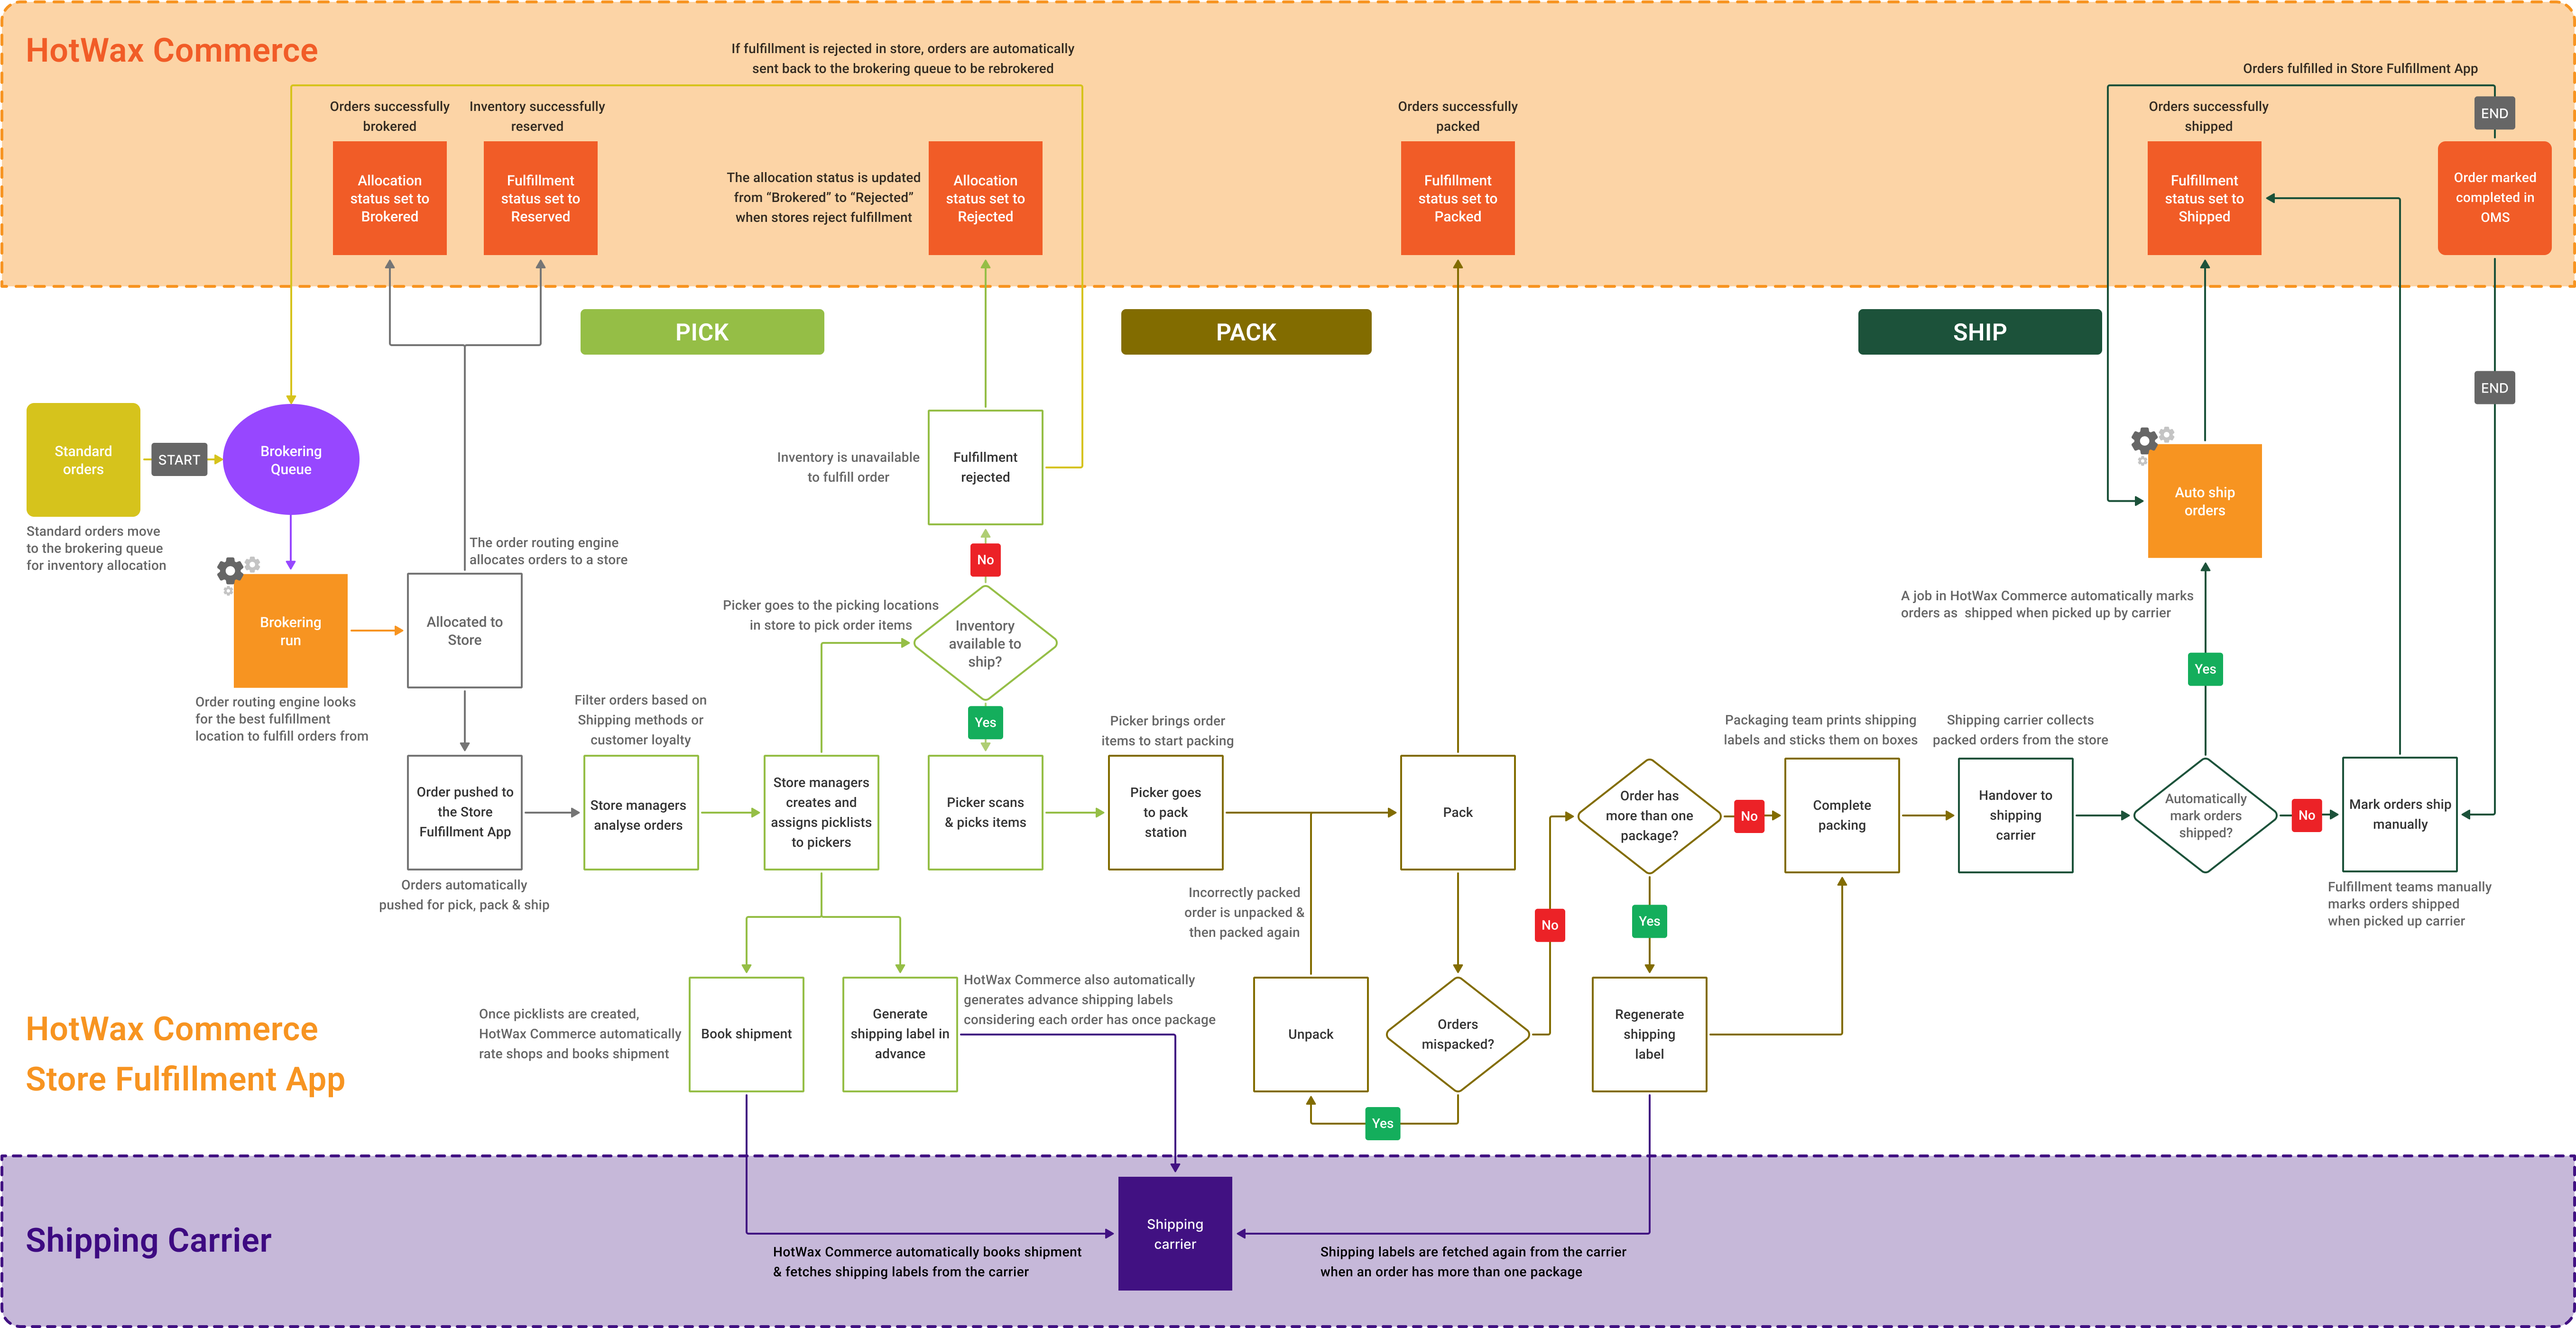
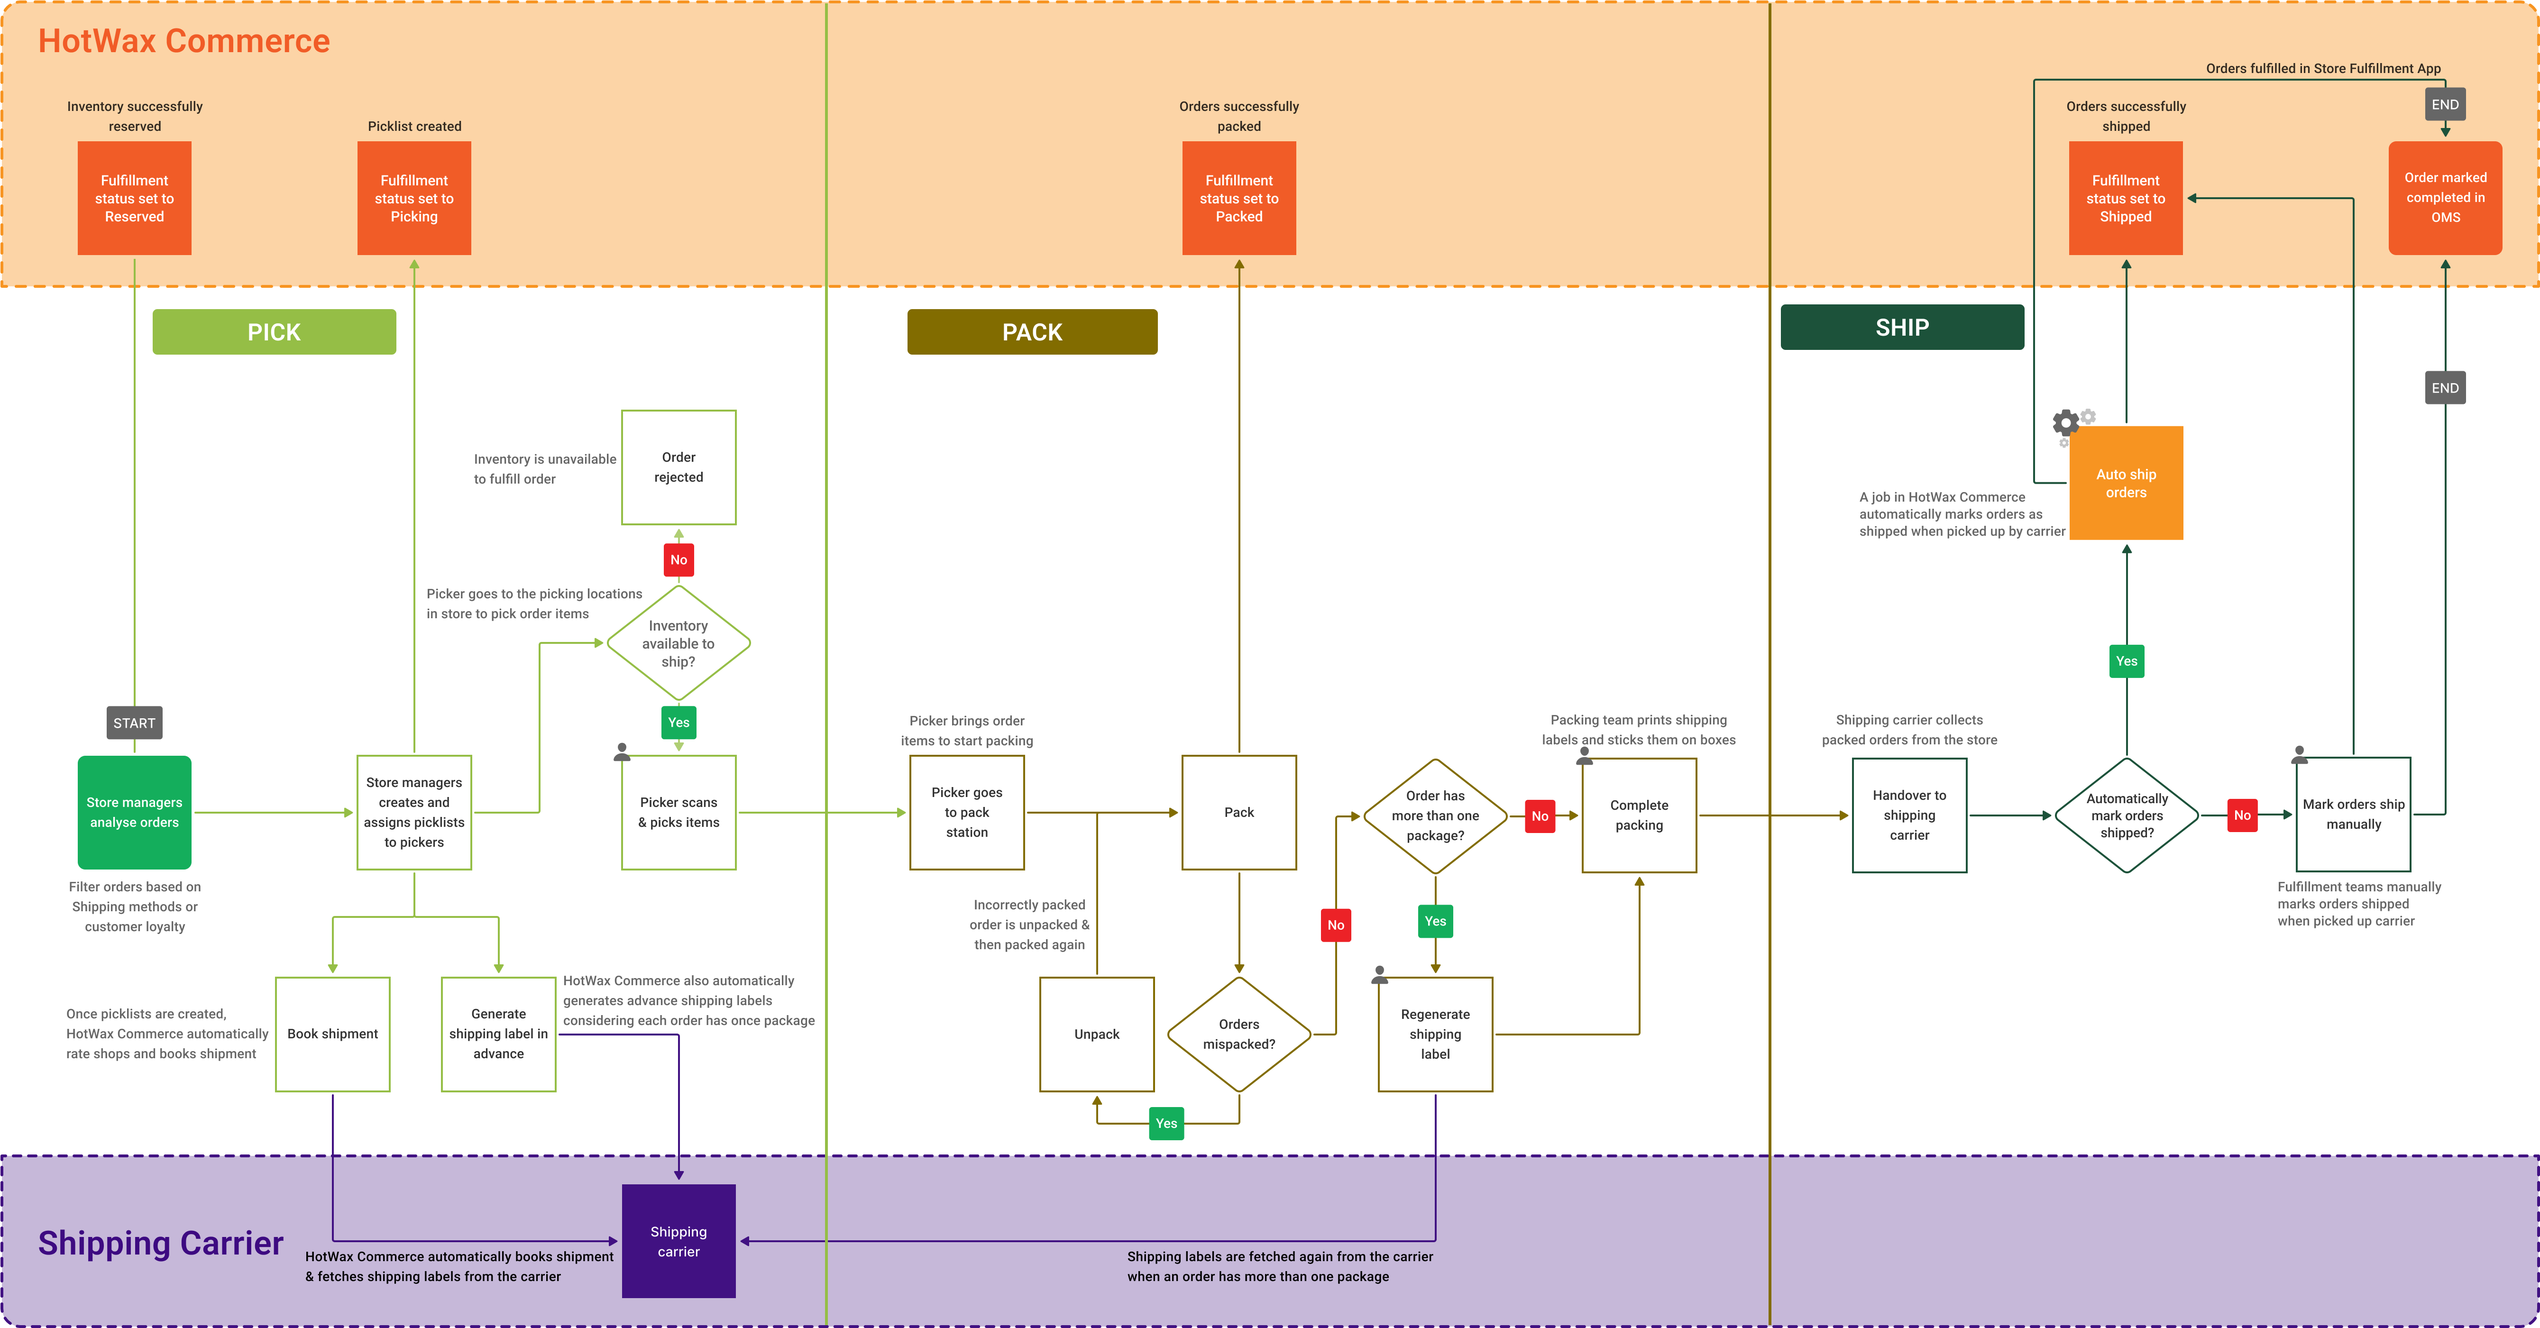
GITBOOK-164: updated an image

diff --git a/user-manuals/business-process-models/orderlifecycle.md b/user-manuals/business-process-models/orderlifecycle.md
@@ -45,7 +45,7 @@ Each order has its distinct fulfillment process, making it essential to recogniz
 
 ## Fulfillment of Standard Orders
 
-All the approved standard orders are sent to the `Brokering Queue` which serves as a waiting area for orders awaiting processing. Orders in the brokering queue are analyzed and picked in the brokering run.
+All the approved standard orders are sent to the [`Brokering Queue`](https://docs.hotwax.co/user-guides/administration/facilities/manage-parkings) which serves as a waiting area for orders awaiting processing. Orders in the brokering queue are analyzed and picked in the brokering run.
 
 {% hint style="info" %}
 **What are brokering runs:**
@@ -92,7 +92,7 @@ In the event, that a fulfillment location cannot fulfill an order that has been 
 
 ## Failed Inventory Allocation
 
-When inventory is unavailable for orders at any location, the order routing engine moves them from the `Brokering Queue` to the `Unfillable Parking`. A dedicated brokering run is performed to check the orders in the `Unfillable Parking` and allocate inventory to them.
+When inventory is unavailable for orders at any location, the order routing engine moves them from the `Brokering Queue` to the [`Unfillable Parking`](https://docs.hotwax.co/user-guides/administration/facilities/manage-parkings). A dedicated brokering run is performed to check the orders in the `Unfillable Parking` and allocate inventory to them.
 
 ### Auto-Cancellation
 
@@ -106,7 +106,7 @@ A scheduled job checks if the auto-cancellation date for unfillable orders has b
 
 ### Avoid Auto-Cancellation
 
-Retailers with prior knowledge of future inventory through their purchase orders can move these unfillable orders in bulk from `Unfillable Parking` to the `Unfillable Hold Parking` using a CSV file. This action prevents these orders from being automatically canceled and allows them to be fulfilled in the future.
+Retailers with prior knowledge of future inventory through their purchase orders can move these unfillable orders in bulk from `Unfillable Parking` to the [`Unfillable Hold Parking`](https://docs.hotwax.co/user-guides/administration/facilities/manage-parkings) using a CSV file. This action prevents these orders from being automatically canceled and allows them to be fulfilled in the future.
 
 When the inventory arrives, retailers can schedule a brokering run that looks at the orders present in the `Unfillable Hold Parking` and allocates inventory for them.
 
@@ -126,7 +126,7 @@ Once the order is prepared, customer receives an email informing them that their
 
 ### BOPIS Fulfillment Failure:
 
-In the event store associates cannot find the inventory to fulfill a pick-up order, for reasons such as items being out of stock or damaged, a store manager has the authority to reject that order. All the rejected BOPIS orders are then automatically sent to the `BOPIS Rejected Queue`.
+In the event store associates cannot find the inventory to fulfill a pick-up order, for reasons such as items being out of stock or damaged, a store manager has the authority to reject that order. All the rejected BOPIS orders are then automatically sent to the [`BOPIS Rejected Queue`](https://docs.hotwax.co/user-guides/administration/facilities/manage-parkings).
 
 In this scenario, an email is automatically sent to the customer for <mark style="color:orange;">**alternative fulfillment options such as pickup from another store or home delivery**</mark>. Retailers can configure these options based on their order fulfillment strategy.
 

diff --git a/user-manuals/business-process-models/store.fulfillment.md b/user-manuals/business-process-models/store.fulfillment.md
@@ -7,7 +7,7 @@ description: >-
 
 # Store fulfillment lifecycle
 
-<figure><img src="../.gitbook/assets/store fulfillment lifecycle bpm.png" alt=""><figcaption><p>Store fulfillment lifecycle business process model</p></figcaption></figure>
+<figure><img src="../.gitbook/assets/store fulfillment bpm.png" alt=""><figcaption><p>Store fulfillment lifecycle business process model</p></figcaption></figure>
 
 An order will have multiple fulfillments in case it has been split. Each fulfillment will have its independent lifecycle. For example, consider an order containing two items: one item is backordered while the other is in stock. Once the in-stock item is fulfilled, it will follow its lifecycle, and when the backordered item is fulfilled later, it will have its own separate lifecycle.
 
